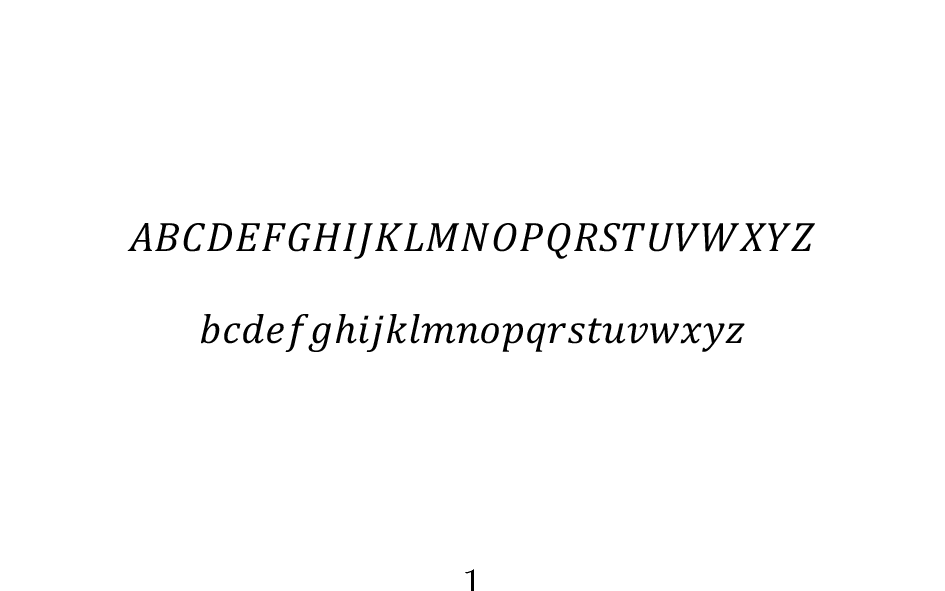
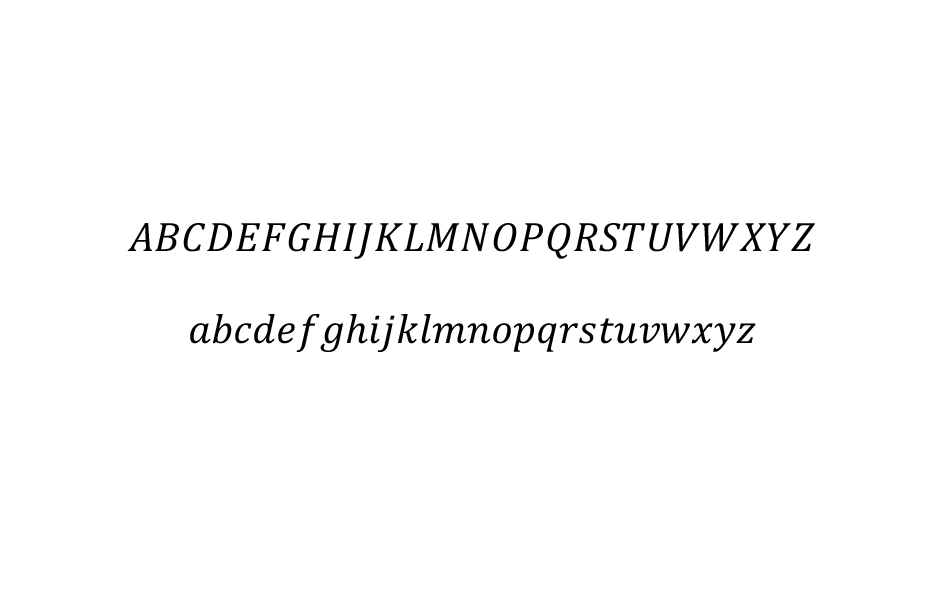
Add a document containing the entire testsuite

Changed region(s): [[0.1841, 0.5178, 0.7979, 0.6091], [0.491, 0.9746, 0.5217, 1.0]]

diff --git a/testfiles/umtest-preamble.tex b/testfiles/umtest-preamble.tex
@@ -1,0 +1,7 @@
+
+\documentclass{article}
+\usepackage{geometry}
+\geometry{
+  papersize={8cm,5cm},margin=1cm
+}
+\pagestyle{empty}

diff --git a/testfiles/umtest-suite.tex b/testfiles/umtest-suite.tex
@@ -1,0 +1,3 @@
+\inserttest{0001}
+\inserttest{0002}
+\inserttest{0003}
